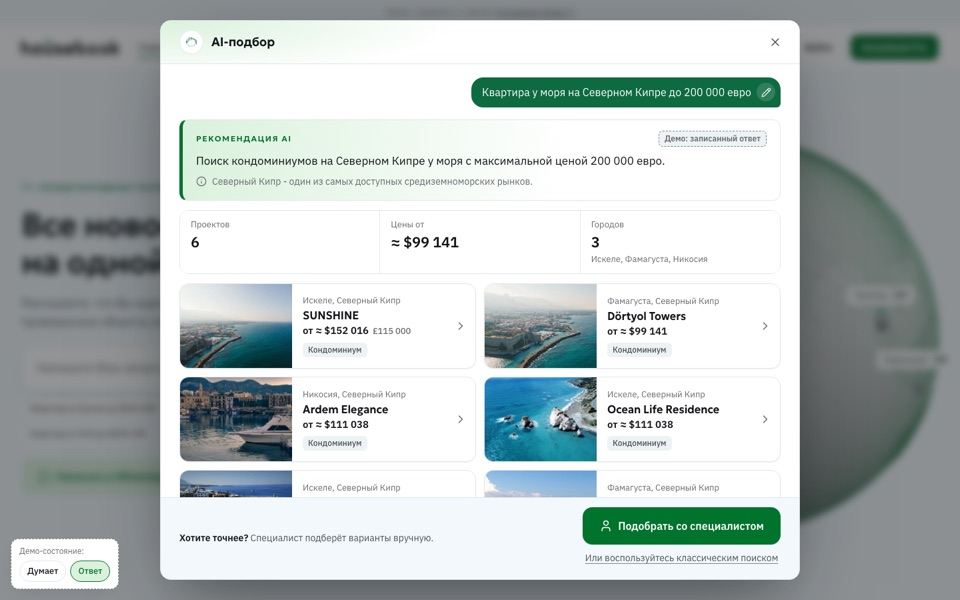
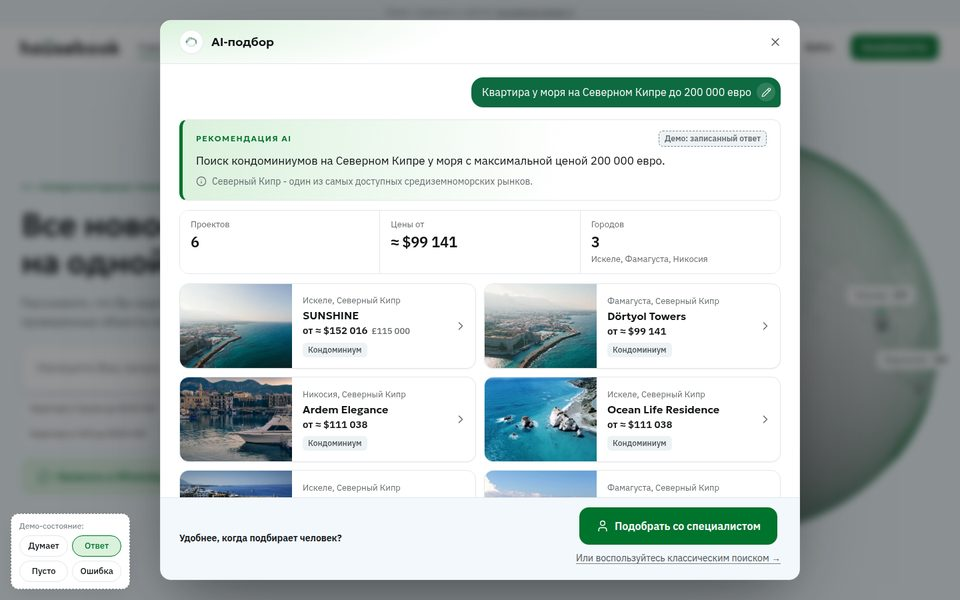
Окно AI: выбран гибрид v4, четыре состояния (думает, ответ, пусто, ошибка и лимит); подвал везде aiSecondLeadText, текст ошибки как в ru.json, на широких экранах окно проявляется прозрачностью
Claude-Session: https://claude.ai/code/session_01KBpJxeu8abbDsLLLBRBy16

diff --git a/ai-okno/v4-gibrid.html b/ai-okno/v4-gibrid.html
@@ -4,8 +4,7 @@
 <meta charset="utf-8">
 <meta name="viewport" content="width=device-width, initial-scale=1, viewport-fit=cover">
 <title>AI‑подбор: гибрид v4</title>
-<meta name="robots" content="noindex">
-<meta name="description" content="Концепт v4: окно AI‑подбора по центру (основа v1), фото на карточках и полоса с цифрами (из v3), пузырь запроса с карандашом (из v2), думающая сфера thinking-orbs. Демо на записанном ответе.">
+<meta name="description" content="Концепт v4: окно AI‑подбора по центру (основа v1), фото на карточках и полоса с цифрами (из v3), пузырь запроса с карандашом (из v2), думающая сфера thinking-orbs. Четыре состояния: думает, ответ (записанный ответ), пусто и ошибка (тексты из кода сайта); всё демо.">
 <meta name="theme-color" content="#0E6A40">
 <link rel="preconnect" href="https://fonts.googleapis.com">
 <link rel="preconnect" href="https://fonts.gstatic.com" crossorigin>
@@ -13,7 +12,7 @@
 <link rel="stylesheet" href="../kit/hb.css">
 <style>
 /* Вариант v4 «Гибрид»: основа v1 (окно по центру над главной), из v3 фото на карточках и полоса с цифрами под рекомендацией,
-   из v2 пузырь запроса с карандашом. Глянцевых шаров нет: думающая сфера thinking-orbs (composing, палитра housebook) на canvas.
+   из v2 пузырь запроса с карандашом. Состояния: ?state=loading, answer, empty, error (&kind=rate - лимит запросов 429). Глянцевых шаров нет: думающая сфера thinking-orbs (composing, палитра housebook) на canvas.
    Стили на токенах кита (hb.css только читается), сырых HEX в стилях нет. */
 
 /* ---------- страница под окном: снимок главной ---------- */
@@ -32,6 +31,9 @@ html:has(.aiw[open]) { overflow: hidden; }
 .aiw::backdrop { background: rgba(18,21,23,.46); -webkit-backdrop-filter: blur(6px) saturate(.9); backdrop-filter: blur(6px) saturate(.9); animation: aiw-fade .45s ease; }
 @keyframes aiw-in { from { opacity: 0; transform: translateY(16px) scale(.985); } }
 @keyframes aiw-fade { from { opacity: 0; } }
+/* с 1400 плашка #demo (position: fixed) живёт внутри dialog: transform у dialog на время анимации сделал бы его
+   containing block, и плашка стояла бы поверх подвала окна. Здесь dialog проявляется только прозрачностью */
+@media (min-width: 1400px) { .aiw[open] { animation-name: aiw-fade; } }
 
 /* голова: малая сфера 20 px как знак AI, название, закрыть */
 .aiw__head { display: flex; align-items: center; gap: 12px; min-height: 64px; padding: 10px 14px 10px var(--pad); border-bottom: 1px solid var(--line); background: radial-gradient(90% 260% at 0% 0%, var(--tint) 0%, transparent 52%), var(--paper); }
@@ -41,8 +43,10 @@ html:has(.aiw[open]) { overflow: hidden; }
 .aiw__x { color: var(--ink-2); }
 
 .aiw__body { position: relative; display: flex; flex-direction: column; gap: 18px; overflow-y: auto; overscroll-behavior: contain; padding: 20px var(--pad) 28px; }
-.aiw[data-state="loading"] .ans, .aiw[data-state="answer"] .think { display: none; }
-.aiw[data-state="loading"] .aiw__body { overflow: hidden; }
+/* четыре состояния: думает, ответ, пусто, ошибка; в теле видна только секция текущего */
+.aiw:not([data-state="loading"]) .think, .aiw:not([data-state="answer"]) .ans, .aiw:not([data-state="empty"]) .emp, .aiw:not([data-state="error"]) .err { display: none; }
+/* заголовок или текст нового состояния получает фокус скриптом: рамку не рисуем, это не элемент управления */
+.aiw__body [tabindex="-1"]:focus { outline: none; }
 
 /* ---------- пузырь запроса (из v2): карандаш превращает запрос в поле, Enter или кнопка отправляют заново ---------- */
 .q { display: grid; justify-items: end; gap: 6px; }
@@ -63,7 +67,9 @@ html:has(.aiw[open]) { overflow: hidden; }
 .q__note { text-align: right; }
 
 /* ---------- думает: крупная сфера composing, сменяющаяся подпись хода, скелетоны ---------- */
-.think { flex: 1 1 0; display: grid; grid-template-rows: auto minmax(0, 1fr); gap: 20px; min-height: 0; }
+/* скелетоны занимают только остаток высоты (contain: size - своей высоты у них нет), сфера с подписью не сжимается:
+   на низком экране (320x568, 1024x600) плашка демо встаёт под подписью, а не на неё, и тело прокручивается */
+.think { flex: 1 1 0; display: grid; grid-template-rows: auto minmax(0, 1fr); gap: 20px; }
 .think__stage { display: grid; justify-items: center; gap: 4px; padding-top: 8px; text-align: center; }
 .think__orb { position: relative; display: grid; place-items: center; width: 240px; height: 184px; }
 .think__orb::before { content: ""; position: absolute; inset: 0; border-radius: 50%; background: radial-gradient(closest-side, var(--tint), transparent); }
@@ -72,7 +78,7 @@ html:has(.aiw[open]) { overflow: hidden; }
 .think__step span { display: inline-block; }
 .think__step.is-in span { animation: step-in .5s cubic-bezier(.2,.7,.2,1); }
 @keyframes step-in { from { opacity: 0; transform: translateY(8px); filter: blur(2px); } }
-.think__skel { display: grid; align-content: start; gap: 12px; min-height: 0; overflow: hidden; -webkit-mask-image: linear-gradient(#000 40%, transparent 100%); mask-image: linear-gradient(#000 40%, transparent 100%); }
+.think__skel { display: grid; align-content: start; gap: 12px; min-height: 0; overflow: hidden; contain: size; -webkit-mask-image: linear-gradient(#000 40%, transparent 100%); mask-image: linear-gradient(#000 40%, transparent 100%); }
 .rec.rec--skel { gap: 10px; border-left-color: var(--line); background: var(--paper); }
 .ai-card--skel, .ai-card--skel:hover { transform: none; border-color: var(--line); box-shadow: none; }
 .ai-card--skel .skel--ph { height: auto; min-height: calc(var(--ph-w) * .75); border-radius: 0; }
@@ -108,6 +114,23 @@ html:has(.aiw[open]) { overflow: hidden; }
 .ai-card:has(.card__link:focus-visible) { outline: 2px solid var(--accent-hover); outline-offset: 2px; }
 .ai-card .card__link:focus-visible { outline: none; }
 
+/* ---------- пусто: честное пояснение сервера в той же рамке, что рекомендация, текст «не найдено» из переводов, подсказки ---------- */
+/* полоса нейтральная, а не цвета акцента: это ответ без подбора, но и не ошибка; полосы с цифрами нет, цифр в пустом ответе нет */
+.emp, .err { display: grid; gap: 14px; align-content: start; }
+.rec--empty { border-left-color: var(--control); background: var(--paper); }
+.rec--empty .rec__t { max-width: none; text-wrap: pretty; }
+.rec--empty .rec__f { color: var(--ink-2); font-size: var(--fs-ui); line-height: 22px; }
+.rec--empty .rec__f .ic { margin-top: 3px; color: var(--ink-3); }
+.tips { display: grid; gap: 8px; }
+.tips__k { font-size: var(--fs-small); line-height: 20px; color: var(--ink-3); }
+.tips .pill { min-height: var(--h-touch); text-align: left; }
+
+/* ---------- ошибка: плашка брендбука п.9.11 (.notice), сбой поиска красной полосой, лимит запросов оранжевой ---------- */
+.err .notice { padding: 16px 18px 18px; }
+.err__top { display: flex; flex-wrap: wrap; align-items: flex-start; justify-content: space-between; gap: 6px 12px; }
+.err .notice__t { flex: 1 1 260px; font: 600 17px/24px "Geologica", "IBM Plex Sans", sans-serif; }
+.err .notice > .ic { width: 22px; height: 22px; margin-top: 1px; }
+
 /* ---------- подвал: заявка одна; слева пояснение к ней по состоянию, в ответе под кнопкой классический поиск ---------- */
 .aiw__foot { display: grid; grid-template-columns: minmax(0, 1fr) auto; align-items: center; gap: 10px 24px; padding: 14px var(--pad) 16px; border-top: 1px solid var(--line); background: var(--page); }
 .foot-t { font-size: var(--fs-small); line-height: 20px; color: var(--ink-2); text-wrap: balance; }
@@ -116,21 +139,27 @@ html:has(.aiw[open]) { overflow: hidden; }
 .cta .btn { white-space: nowrap; }
 .cta__alt { display: inline-flex; align-items: center; min-height: 32px; font-size: var(--fs-small); line-height: 20px; color: var(--ink-2); text-decoration: underline; text-decoration-color: var(--control); text-underline-offset: 3px; }
 .cta__alt:hover { color: var(--accent-text); text-decoration-color: currentColor; }
-.aiw[data-state="answer"] .foot-t--loading, .aiw[data-state="loading"] .foot-t--answer, .aiw[data-state="loading"] .cta__alt { display: none; }
+.aiw[data-state="loading"] .cta__alt { display: none; }
 .more-slot { display: contents; }
 
 /* ---------- демо-переключатель: вне окна, в углу ---------- */
 .demo { position: fixed; left: 16px; bottom: 16px; z-index: 30; display: grid; gap: 6px; padding: 10px 12px; border: 1px dashed var(--control); border-radius: var(--r-m); background: var(--paper); box-shadow: var(--e2); font-size: var(--fs-min); line-height: 16px; color: var(--ink-3); }
-.demo__b { display: flex; gap: 6px; }
+/* четыре кнопки сеткой 2 на 2: с 1400 плашка (правый край 195) стоит левее окна (левый край от 220) и не ложится на подвал */
+.demo__b { display: grid; grid-template-columns: repeat(2, minmax(0, 1fr)); gap: 6px; }
+.demo .pill { justify-content: center; }
 .demo .pill[aria-pressed="true"] { border-color: var(--sel-bd); background: var(--sel-bg); color: var(--sel-fg); }
 .aiw .toasts { bottom: 24px; }
+/* при ширине меньше 1400 слева от окна места нет (при 1280 окно начинается со 160): плашка уходит в конец тела окна,
+   кнопки одним рядом (не съедает скелетоны «думает»), с переносом, чтобы на 320 не быть шире тела */
+@media (max-width: 1399px) {
+  .aiw .demo { position: static; justify-self: start; margin-top: 4px; box-shadow: none; }
+  .aiw .demo__b { display: flex; flex-wrap: wrap; }
+}
 
 /* ---------- планшет: окно почти во весь экран, фото меньше ---------- */
 @media (max-width: 899px) {
   .aiw { --pad: 20px; --ph-w: 116px; width: calc(100vw - 32px); height: calc(100dvh - 32px); }
   .aiw__foot { gap: 10px 20px; }
-  /* окно почти во весь экран: плашка демо уходит в конец тела, иначе ложится на подвал */
-  .aiw .demo { position: static; justify-self: start; margin-top: 4px; box-shadow: none; }
 }
 @media (max-width: 759px) { .ai-cards { grid-template-columns: minmax(0, 1fr); } }
 
@@ -163,13 +192,13 @@ html:has(.aiw[open]) { overflow: hidden; }
   .ai-card__go { margin-right: 8px; }
   .aiw__foot { grid-template-columns: minmax(0, 1fr); gap: 8px; padding: 10px 16px calc(10px + env(safe-area-inset-bottom)); background: var(--paper); box-shadow: 0 -8px 20px -14px rgba(18,21,23,.3); }
   .foot-t { font-size: var(--fs-cap); line-height: 18px; text-align: center; }
-  .aiw .foot-t--answer { display: none; }
+  .aiw[data-state="answer"] .foot-t { display: none; }
   .cta { grid-column: auto; }
   .cta .btn { width: 100%; min-height: var(--h-m); }
   /* ссылка на классический поиск переезжает в тело (скрипт), внизу закреплена только кнопка заявки; касание 44 */
   .more-slot { display: grid; gap: 14px; margin-top: 4px; padding-top: 16px; border-top: 1px solid var(--line); }
   .more-slot .cta__alt { justify-self: start; min-height: var(--h-touch); }
-  .aiw .demo .pill { min-height: var(--h-touch); padding: 0 16px; }
+  .aiw .demo .pill { min-height: var(--h-touch); padding: 0 12px; }
   .aiw .toasts { bottom: calc(80px + env(safe-area-inset-bottom)); }
 }
 
@@ -188,6 +217,10 @@ html.freeze .aiw[open], html.freeze .aiw::backdrop { animation: none; }
 <symbol id="i-chevron-right" viewBox="0 0 24 24"><path d="m9 18 6-6-6-6"/></symbol>
 <symbol id="i-info" viewBox="0 0 24 24"><circle cx="12" cy="12" r="10"/><path d="M12 16v-4"/><path d="M12 8h.01"/></symbol>
 <symbol id="i-user" viewBox="0 0 24 24"><path d="M19 21v-2a4 4 0 0 0-4-4H9a4 4 0 0 0-4 4v2"/><circle cx="12" cy="7" r="4"/></symbol>
+<symbol id="i-search-x" viewBox="0 0 24 24"><path d="m13.5 8.5-5 5"/><path d="m8.5 8.5 5 5"/><circle cx="11" cy="11" r="8"/><path d="m21 21-4.3-4.3"/></symbol>
+<symbol id="i-triangle-alert" viewBox="0 0 24 24"><path d="m21.73 18-8-14a2 2 0 0 0-3.48 0l-8 14A2 2 0 0 0 4 21h16a2 2 0 0 0 1.73-3"/><path d="M12 9v4"/><path d="M12 17h.01"/></symbol>
+<symbol id="i-clock" viewBox="0 0 24 24"><circle cx="12" cy="12" r="10"/><path d="M12 6v6l4 2"/></symbol>
+<symbol id="i-refresh" viewBox="0 0 24 24"><path d="M3 12a9 9 0 0 1 9-9 9.75 9.75 0 0 1 6.74 2.74L21 8"/><path d="M21 3v5h-5"/><path d="M21 12a9 9 0 0 1-9 9 9.75 9.75 0 0 1-6.74-2.74L3 16"/><path d="M8 16H3v5"/></symbol>
 <symbol id="i-pencil" viewBox="0 0 24 24"><path d="M21.174 6.812a1 1 0 0 0-3.986-3.987L3.842 16.174a2 2 0 0 0-.5.83l-1.321 4.352a.5.5 0 0 0 .623.622l4.353-1.32a2 2 0 0 0 .83-.497z"/><path d="m15 5 4 4"/></symbol>
 </svg>
 
@@ -214,10 +247,11 @@ html.freeze .aiw[open], html.freeze .aiw::backdrop { animation: none; }
         <label class="sr-only" for="q-in">Изменить запрос: ответ ниже заменится новым подбором</label>
         <div class="ask__bar"><input id="q-in" name="q" type="text" placeholder="Напишите, что ищете" autocomplete="off" enterkeyhint="send"><button class="btn btn--tint" type="submit">Спросить AI</button></div>
         <div class="q__row">
+          <!-- подсказки из кода сайта: src/locales/ru.json aiSearch.example1-3 (строки 1617, 1620, 1621), неразрывные пробелы только типографика -->
           <div class="ask__hints">
-            <button type="button" class="pill pill--xs" data-q>Студия в Искеле до 120&nbsp;000 евро</button>
-            <button type="button" class="pill pill--xs" data-q>Вилла в Кирении у моря</button>
-            <button type="button" class="pill pill--xs" data-q>Квартира в Никосии</button>
+            <button type="button" class="pill pill--xs" data-q>Квартира в Грузии до&nbsp;100&nbsp;000 долларов</button>
+            <button type="button" class="pill pill--xs" data-q>Объект с высокой арендной доходностью</button>
+            <button type="button" class="pill pill--xs" data-q>Квартира в ОАЭ до&nbsp;$300,000</button>
           </div>
           <button type="button" class="btn btn--quiet btn--s" id="q-cancel">Отмена</button>
         </div>
@@ -244,7 +278,7 @@ html.freeze .aiw[open], html.freeze .aiw::backdrop { animation: none; }
     <section class="ans" aria-labelledby="rec-k">
       <div class="rec" data-rv>
         <div class="rec__top">
-          <h3 class="eyebrow rec__k" id="rec-k">Рекомендация AI</h3>
+          <h3 class="eyebrow rec__k" id="rec-k" tabindex="-1">Рекомендация AI</h3>
           <span class="badge badge--sample badge--txt">Демо: записанный ответ</span>
         </div>
         <p class="rec__t">Поиск кондоминиумов на Северном Кипре у моря с максимальной ценой 200&nbsp;000 евро.</p>
@@ -264,17 +298,52 @@ html.freeze .aiw[open], html.freeze .aiw::backdrop { animation: none; }
         <li data-rv><article class="card ai-card"><div class="ai-card__ph"><img src="img/northern-cyprus-3.webp" alt="" decoding="async"></div><div class="ai-card__b"><span class="card__place">Искеле, Северный Кипр</span><h4><a class="card__link" href="../proekt.html">Riverside Life Residence</a></h4><span class="card__price">от&nbsp;≈&nbsp;$122&nbsp;935</span><span class="tag">Кондоминиум</span></div><svg class="ic ai-card__go" aria-hidden="true"><use href="#i-chevron-right"/></svg></article></li>
         <li data-rv><article class="card ai-card"><div class="ai-card__ph"><img src="img/cyprus-3.webp" alt="" decoding="async"></div><div class="ai-card__b"><span class="card__place">Фамагуста, Северный Кипр</span><h4><a class="card__link" href="../proekt.html">Neo Residence</a></h4><span class="card__price">от&nbsp;≈&nbsp;$130&nbsp;866</span><span class="tag">Кондоминиум</span></div><svg class="ic ai-card__go" aria-hidden="true"><use href="#i-chevron-right"/></svg></article></li>
       </ul>
-      <div class="more-slot" id="more-slot"></div>
+      <div class="more-slot" id="more-slot" data-slot="answer"></div>
+    </section>
+
+    <!-- пусто: запрос из теста маршрута (src/app/api/ai-search/__tests__/ai-search-route.test.ts:254), рынок назван, но его нет в каталоге;
+         пояснение сервера тогда не текст модели, а постоянная строка AI_SEARCH_UNKNOWN_MARKET_EXPLANATION.ru (src/lib/ai/ai-search.ts:77) -->
+    <section class="emp" aria-labelledby="emp-k">
+      <div class="rec rec--empty">
+        <div class="rec__top">
+          <h3 class="eyebrow rec__k" id="emp-k">Рекомендация AI</h3>
+          <span class="badge badge--sample badge--txt">Демо: тексты из кода сайта</span>
+        </div>
+        <!-- «Вами» с прописной по правилу владельца об обращении; в коде сайта (src/lib/ai/ai-search.ts:77) «вами» со строчной - правка для волны В6 -->
+        <p class="rec__t" id="emp-t" tabindex="-1">Названного Вами направления пока нет в нашем каталоге - честно нечего предложить именно там.</p>
+        <p class="rec__f"><svg class="ic ic--16" aria-hidden="true"><use href="#i-search-x"/></svg><span id="emp-none" role="status">Подходящих объектов не найдено. Попробуйте другой запрос.</span></p>
+      </div>
+      <div class="tips" role="group" aria-labelledby="tips-k">
+        <p class="tips__k" id="tips-k">Попробуйте спросить:</p>
+        <div class="ask__hints">
+          <button type="button" class="pill" data-ask>Квартира в Грузии до&nbsp;100&nbsp;000 долларов</button>
+          <button type="button" class="pill" data-ask>Объект с высокой арендной доходностью</button>
+          <button type="button" class="pill" data-ask>Квартира в ОАЭ до&nbsp;$300,000</button>
+        </div>
+      </div>
+      <div class="more-slot" data-slot="empty"></div>
+    </section>
+
+    <!-- ошибка: текст сбоя из переводов (aiSearch.error), а не серверная строка с внутренним сообщением; ?kind=rate - лимит запросов (429) -->
+    <section class="err" aria-labelledby="err-t">
+      <div class="notice notice--err" id="err-box">
+        <svg class="ic" aria-hidden="true"><use id="err-ic" href="#i-triangle-alert"/></svg>
+        <div class="err__top">
+          <h3 class="notice__t" id="err-t" tabindex="-1"><span id="err-msg" role="alert">AI-поиск временно недоступен.</span></h3>
+          <span class="badge badge--sample badge--txt">Демо: текст из кода сайта</span>
+        </div>
+        <div class="notice__act"><button type="button" class="btn btn--s btn--t" id="retry"><svg class="ic" aria-hidden="true"><use href="#i-refresh"/></svg>Повторить</button></div>
+      </div>
+      <div class="more-slot" data-slot="error"></div>
     </section>
     <div id="demo-slot"></div>
   </div>
 
   <footer class="aiw__foot">
-    <p class="foot-t foot-t--loading"><b>Не хотите ждать?</b> Специалист подберёт варианты вручную.</p>
-    <p class="foot-t foot-t--answer"><b>Хотите точнее?</b> Специалист подберёт варианты вручную.</p>
+    <p class="foot-t"><b>Удобнее, когда подбирает человек?</b></p><!-- во всех состояниях: src/locales/ru.json aiSecondLeadText -->
     <div class="cta" id="cta">
       <button type="button" class="btn btn--acc btn--l" id="lead"><svg class="ic" aria-hidden="true"><use href="#i-user"/></svg>Подобрать со специалистом</button>
-      <a class="cta__alt" id="alt" href="../nedvizhimost.html">Или воспользуйтесь классическим поиском</a>
+      <a class="cta__alt" id="alt" href="../nedvizhimost.html">Или воспользуйтесь классическим поиском&nbsp;→</a><!-- ru.json aiSearch.useClassicFilters / orUseFilters, стрелка из кода -->
     </div>
   </footer>
   <div class="toasts" id="toasts" role="status"></div>
@@ -285,6 +354,8 @@ html.freeze .aiw[open], html.freeze .aiw::backdrop { animation: none; }
   <div class="demo__b">
     <button type="button" class="pill pill--xs" data-demo="loading" aria-pressed="false">Думает</button>
     <button type="button" class="pill pill--xs" data-demo="answer" aria-pressed="true">Ответ</button>
+    <button type="button" class="pill pill--xs" data-demo="empty" aria-pressed="false">Пусто</button>
+    <button type="button" class="pill pill--xs" data-demo="error" aria-pressed="false">Ошибка</button>
   </div>
 </div>
 
@@ -303,7 +374,19 @@ html.freeze .aiw[open], html.freeze .aiw::backdrop { animation: none; }
   const dlg = $('#aiw'), body = $('#aiw-body'), title = $('#aiw-t'), stepT = $('#step-t');
   const demo = $('#demo'), opener = $('#opener'), note = $('#rq-note');
   const qB = $('#q-b'), qText = $('#q-text'), qEdit = $('#q-edit'), qForm = $('#q-form'), qIn = $('#q-in');
-  let state = null, query = Q0, step = 0, tick = null, wait = null;
+  // пусто: запрос из теста маршрута (ai-search-route.test.ts:254) - рынок назван, но его нет в каталоге, пояснение сервера постоянное
+  const Q_EMPTY = 'дом в Монако';
+  const STATES = ['loading', 'answer', 'empty', 'error'];
+  // тексты пустого ответа и ошибок только из кода сайта (ветка hb2/perenos), текст ошибки дословно как в ru.json (обычный дефис), в заголовках дефис неразрывный
+  const T_NONE = 'Подходящих объектов не найдено. Попробуйте другой запрос.';      // src/locales/ru.json:1614 aiSearch.noResults
+  const ERR = {
+    fail: { cls: 'notice--err', ic: '#i-triangle-alert', t: 'AI-поиск временно недоступен.' },                // src/locales/ru.json:1610 aiSearch.error
+    rate: { cls: 'notice--warn', ic: '#i-clock', t: 'Превышен лимит запросов. Попробуйте через минуту.' },  // src/app/api/ai-search/route.ts:75 rateLimit (429)
+  };
+  const errBox = $('#err-box'), errIc = $('#err-ic'), errMsg = $('#err-msg'), empNone = $('#emp-none');
+  // при смене состояния фокус переходит на его заголовок или текст
+  const FOCUS = { loading: title, answer: $('#rec-k'), empty: $('#emp-t'), error: $('#err-t') };
+  let state = null, query = Q0, kind = 'fail', step = 0, tick = null, wait = null;
 
   // ---------- сферы thinking-orbs: composing, палитра housebook ----------
   // крупная 150 px крутится, пока AI думает; малая 20 px в шапке крутится в загрузке, в ответе стоит статичным кадром
@@ -346,11 +429,23 @@ html.freeze .aiw[open], html.freeze .aiw::backdrop { animation: none; }
   const reveal = () => $$('[data-rv]', body).forEach((el, i) => el.animate([{ opacity: 0, transform: 'translateY(10px)' }, { opacity: 1, transform: 'none' }],
     { duration: 420, delay: 80 + i * 50, easing: 'cubic-bezier(.2,.7,.2,1)', fill: 'backwards' }));
 
+  // текст из скрипта: группы разрядов (200 000) и «до» перед числом не рвутся, пробелы между ними неразрывные (U+00A0)
+  const nb = s => s.replace(/(\d) (?=\d{3}(?!\d))/g, '$1 ').replace(/(^|\s)(до) (?=[$€£≈]?\d)/gi, '$1$2 ');
+  // живая область объявляет текст, когда он появляется: сначала пусто, на следующем кадре текст
+  const say = (el, text) => { el.textContent = ''; requestAnimationFrame(() => { el.textContent = nb(text); }); };
+  const paintErr = () => {
+    const k = ERR[kind];
+    for (const c of Object.values(ERR)) errBox.classList.toggle(c.cls, c === k);
+    errIc.setAttribute('href', k.ic);
+    say(errMsg, k.t);
+  };
+
   const setState = (s, o = {}) => {
     stop();
     const prev = state; state = s;
     if (o.query) query = o.query;
-    qText.textContent = query;
+    if (s === 'error') kind = o.kind === 'rate' ? 'rate' : 'fail';
+    qText.textContent = nb(query);
     dlg.dataset.state = s;
     if (s === 'loading') {
       body.setAttribute('aria-busy', 'true'); body.scrollTop = 0; note.hidden = true;
@@ -362,20 +457,28 @@ html.freeze .aiw[open], html.freeze .aiw::backdrop { animation: none; }
       body.setAttribute('aria-busy', 'false');
       bigLive(false); markLive(false);
       if (o.reveal && prev === 'loading' && !RM && dlg.open) { body.scrollTop = 0; reveal(); }
+      if (s === 'empty') { body.scrollTop = 0; say(empNone, T_NONE); }
+      if (s === 'error') { body.scrollTop = 0; paintErr(); }
     }
+    placeFoot();
+    if (o.focus) FOCUS[s].focus({ preventScroll: true });
     syncDemo();
-    try { const u = new URL(location.href); u.searchParams.set('state', s); history.replaceState(null, '', u); } catch (e) { /* file:// в части браузеров не даёт менять адрес: состояние уже на странице */ }
+    try {
+      const u = new URL(location.href); u.searchParams.set('state', s);
+      if (s === 'error' && kind === 'rate') u.searchParams.set('kind', 'rate'); else u.searchParams.delete('kind');
+      history.replaceState(null, '', u);
+    } catch (e) { /* file:// в части браузеров не даёт менять адрес: состояние уже на странице */ }
   };
 
   // демо-плашка: в открытом окне живёт внутри dialog (иначе её закрыл бы инертный фон), в закрытом на странице
   const placeDemo = () => (dlg.open ? $('#demo-slot') : document.body).append(demo);
-  // на телефоне ссылка на классический поиск уходит в тело листа, внизу закреплена только кнопка заявки
-  const placeFoot = () => (PHONE.matches ? $('#more-slot') : $('#cta')).append($('#alt'));
+  // на телефоне ссылка на классический поиск уходит в тело листа (в секцию текущего состояния), внизу закреплена только кнопка заявки
+  const placeFoot = () => (PHONE.matches ? ($(`.more-slot[data-slot="${state}"]`) || $('#more-slot')) : $('#cta')).append($('#alt'));
   PHONE.addEventListener('change', placeFoot); placeFoot();
 
   const open = () => { if (!dlg.open) { dlg.showModal(); placeDemo(); title.focus(); } };
-  // форма правки прячется на время загрузки, поэтому фокус уводим в заголовок окна, а не теряем в body
-  const ask = q => { open(); title.focus(); setState('loading', { query: q, then: () => { setState('answer', { reveal: true }); if (q !== Q0) note.hidden = false; } }); };
+  // форма правки прячется на время загрузки, поэтому фокус уводим в заголовок окна, а не теряем в body; в ответе фокус на рекомендации
+  const ask = q => { open(); setState('loading', { query: q, focus: true, then: () => { setState('answer', { reveal: true, focus: true }); if (q !== Q0) note.hidden = false; } }); };
 
   // ---------- правка запроса в пузыре ----------
   const editing = () => !qForm.hidden;
@@ -387,7 +490,7 @@ html.freeze .aiw[open], html.freeze .aiw::backdrop { animation: none; }
   qEdit.addEventListener('click', editOpen);
   $('#q-cancel').addEventListener('click', () => editClose());
   qIn.addEventListener('keydown', e => { if (e.key === 'Escape') { e.preventDefault(); e.stopPropagation(); editClose(); } });
-  for (const c of $$('[data-q]', qForm)) c.addEventListener('click', () => { qIn.value = c.textContent.replace(/ /g, ' '); qIn.focus(); });
+  for (const c of $$('[data-q]', qForm)) c.addEventListener('click', () => { qIn.value = c.textContent.replace(/ /g, ' '); qIn.focus(); });
   qForm.addEventListener('submit', e => {
     e.preventDefault();
     const q = qIn.value.trim().replace(/\s+/g, ' ');
@@ -396,10 +499,15 @@ html.freeze .aiw[open], html.freeze .aiw::backdrop { animation: none; }
   });
 
   opener.addEventListener('click', () => ask(Q0));
+  // демо-переключатель: у каждого состояния свой запрос в пузыре (пусто - «дом в Монако», остальные - записанный)
   for (const b of $$('[data-demo]', demo)) b.addEventListener('click', () => {
     const s = b.dataset.demo; open(); if (editing()) editClose(false);
-    if (s === 'loading') setState('loading'); else setState('answer', { reveal: true });
+    note.hidden = true;
+    setState(s, { query: s === 'empty' ? Q_EMPTY : Q0, reveal: s === 'answer', focus: true });
   });
+  // пусто: подсказка подставляет запрос и уводит в «думает»; ошибка: «Повторить» отправляет тот же запрос заново
+  for (const c of $$('[data-ask]')) c.addEventListener('click', () => ask(c.textContent.replace(/\u00a0/g, ' ')));
+  $('#retry').addEventListener('click', () => ask(query));
   // Esc во время правки закрывает только поле, второе нажатие закрывает окно
   dlg.addEventListener('cancel', e => { if (editing()) { e.preventDefault(); editClose(); } });
   $('[data-close]', dlg).addEventListener('click', () => dlg.close());
@@ -412,9 +520,9 @@ html.freeze .aiw[open], html.freeze .aiw::backdrop { animation: none; }
   });
 
   // старт: окно открыто сразу, состояние из адреса
-  const s0 = P.get('state') === 'loading' ? 'loading' : 'answer';
+  const s0 = STATES.includes(P.get('state')) ? P.get('state') : 'answer';
   dlg.showModal(); placeDemo(); title.focus();
-  setState(s0);
+  setState(s0, { query: s0 === 'empty' ? Q_EMPTY : Q0, kind: P.get('kind'), focus: s0 === 'empty' || s0 === 'error' });
   if (FREEZE) {
     document.documentElement.classList.add('freeze');
     // CSS-анимации стоят: появление в финале, блик скелетона посередине

diff --git a/ai-okno/index.html b/ai-okno/index.html
@@ -40,16 +40,21 @@
   </header>
 
   <section class="av" aria-labelledby="v4">
-    <h2 id="v4">4. Гибрид: окно по центру с лучшим из вариантов 2 и 3</h2>
+    <h2 id="v4">4. Гибрид: окно по центру с лучшим из вариантов 2 и 3 (выбран, четыре состояния)</h2>
     <p>Основа варианта 1: окно по центру, шесть объектов в две колонки, одна кнопка заявки. Из варианта 3 взяты фото объектов и полоса с цифрами, из варианта 2 пузырь с запросом и карандашом для правки. Пока AI думает, по центру думающая сфера «composing» и сменяющиеся подписи хода, без счётчика шагов.</p>
     <div class="av__links">
       <a class="btn btn--acc" href="v4-gibrid.html?state=answer">Открыть: ответ</a>
       <a class="btn btn--ghost" href="v4-gibrid.html?state=loading">Открыть: AI думает</a>
+      <a class="btn btn--ghost" href="v4-gibrid.html?state=empty">Открыть: пусто</a>
+      <a class="btn btn--ghost" href="v4-gibrid.html?state=error">Открыть: ошибка</a>
+      <a class="btn btn--ghost" href="v4-gibrid.html?state=error&amp;kind=rate">Открыть: лимит запросов</a>
     </div>
     <div class="av__shots">
       <figure><img src="shots/v4-gibrid-loading-1440.jpg" width="960" height="600" alt="Вариант 4, компьютер: AI думает" loading="lazy"><figcaption>Компьютер, AI думает</figcaption></figure>
       <figure><img src="shots/v4-gibrid-answer-1440.jpg" width="960" height="600" alt="Вариант 4, компьютер: ответ" loading="lazy"><figcaption>Компьютер, ответ</figcaption></figure>
       <figure><img src="shots/v4-gibrid-answer-375.jpg" width="375" height="812" alt="Вариант 4, телефон: ответ" loading="lazy"><figcaption>Телефон, ответ</figcaption></figure>
+      <figure><img src="shots/v4-gibrid-empty-1440.jpg" width="960" height="600" alt="Вариант 4, компьютер: пусто" loading="lazy"><figcaption>Компьютер, пусто</figcaption></figure>
+      <figure><img src="shots/v4-gibrid-error-1440.jpg" width="960" height="600" alt="Вариант 4, компьютер: ошибка" loading="lazy"><figcaption>Компьютер, ошибка</figcaption></figure>
     </div>
   </section>
 
